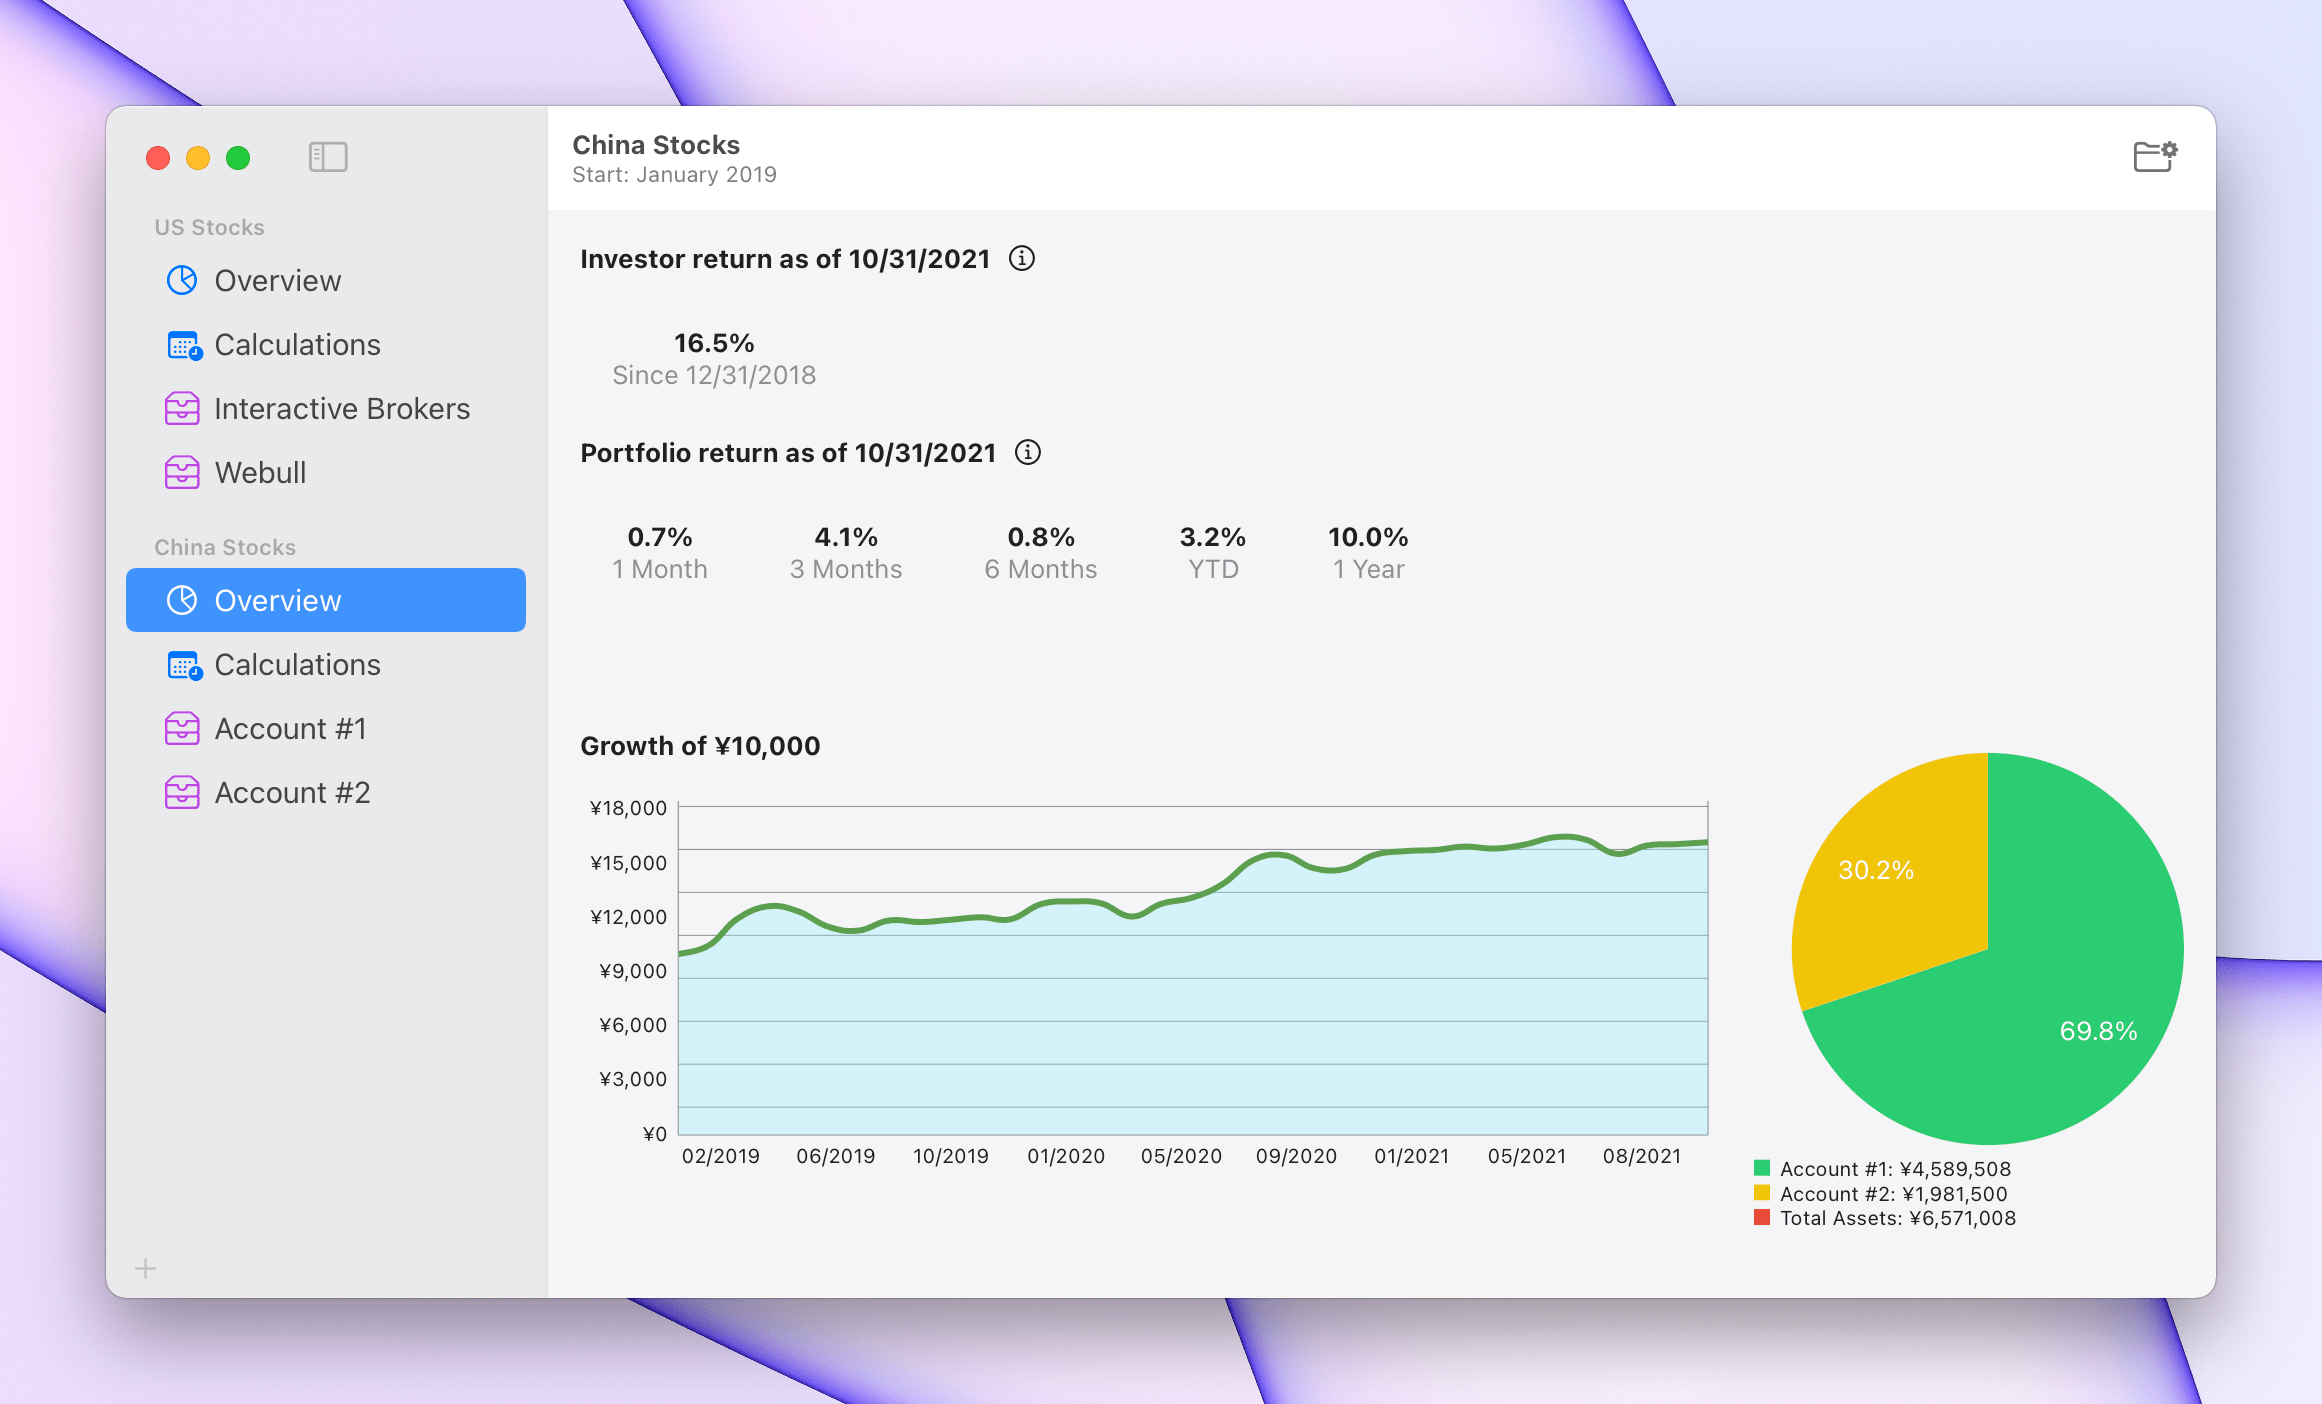
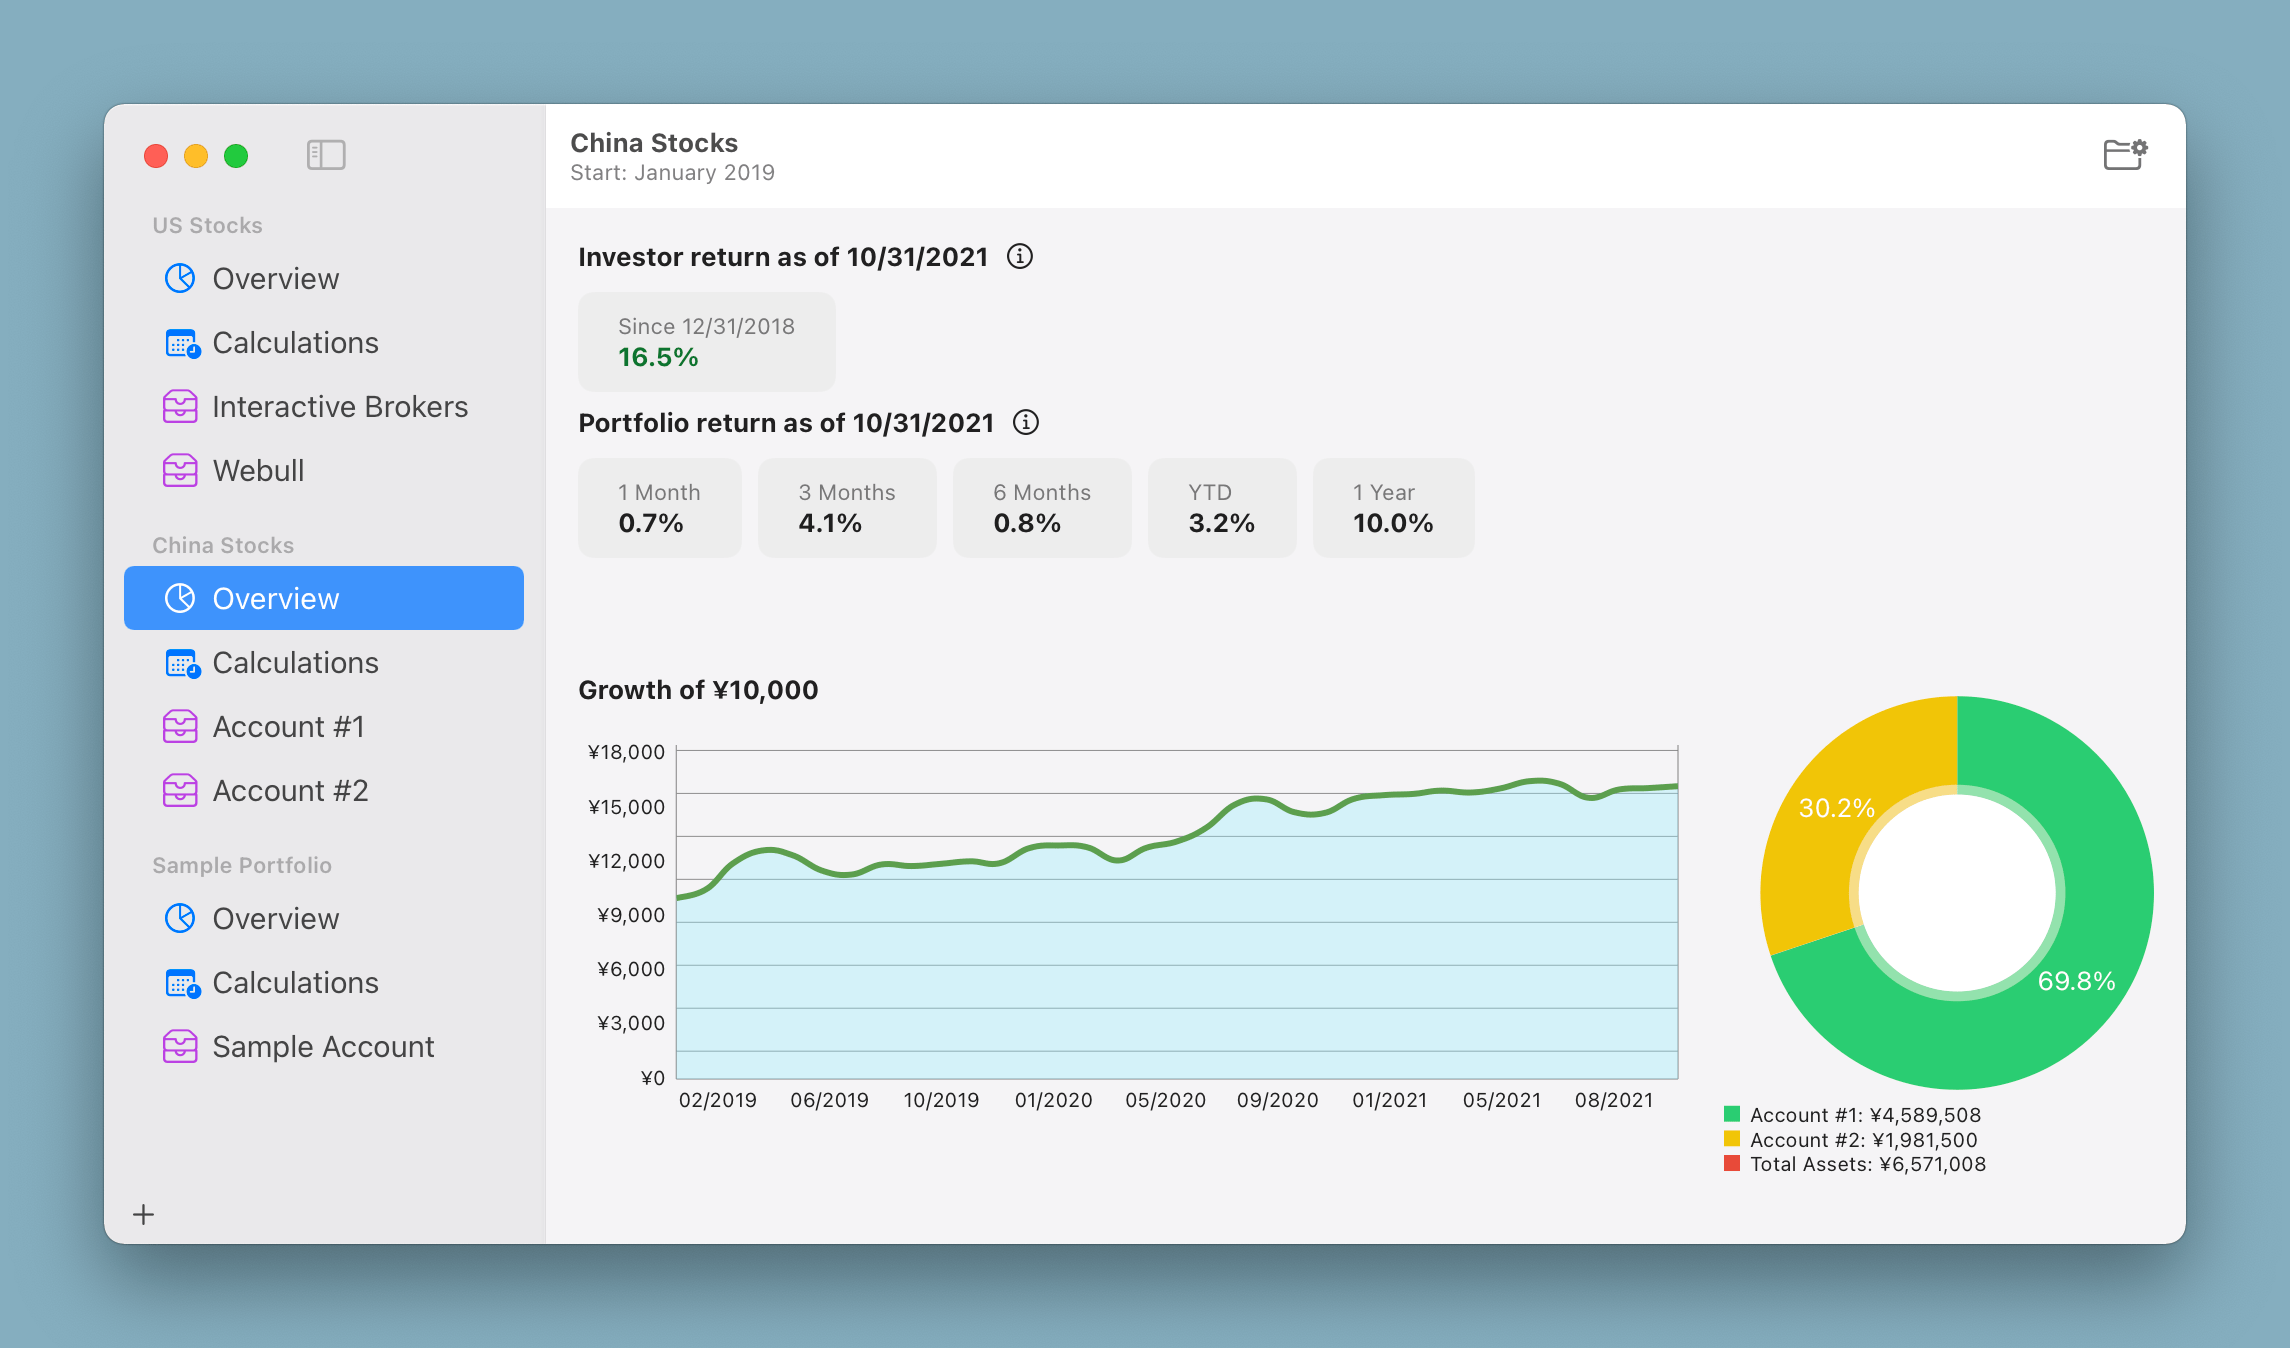
Polish overview page

diff --git a/macOS/Views/PortfolioView/PortfolioReturnView.swift b/macOS/Views/PortfolioView/PortfolioReturnView.swift
@@ -11,6 +11,7 @@ struct PortfolioReturnView: View {
     var portfolioReturn: PortfolioReturn
     @State private var showingInvestorReturnViewPopover = false
     @State private var showingPortfolioReturnViewPopover = false
+    @AppStorage("upsDownsColor") var upsDownsColor = UpsDownsColor.greenUp
 
     var body: some View {
         if let returnObject = portfolioReturn.returns.last {
@@ -31,7 +32,8 @@ struct PortfolioReturnView: View {
 
                 returnView(
                     label: "Since \(Self.dateFormatter.string(from: portfolioReturn.returns.first!.closeDate))",
-                    value: portfolioReturn.internalReturn
+                    value: portfolioReturn.internalReturn,
+                    showColor: true
                 )
 
                 HStack {
@@ -76,35 +78,72 @@ struct PortfolioReturnView: View {
             EmptyView()
         }
     }
+}
 
-    private func returnView(label: String, value: Decimal?) -> some View {
+private extension PortfolioReturnView {
+    func returnView(label: String, value: Decimal?, showColor: Bool) -> some View {
+        Group {
+            if showColor {
+                returnView(label: label, value: value)
+                    .foregroundColor(returnColor(value ?? 0))
+            } else {
+                returnView(label: label, value: value)
+            }
+        }
+    }
+
+    func returnView(label: String, value: Decimal?) -> some View {
         Group {
             if let value = value {
-                VStack {
+                GroupBox {
                     Text(Self.valueFormatter.string(from: value as NSNumber) ?? "0.0%")
                         .font(.headline)
+                } label: {
                     Text(label)
-                        .foregroundColor(.gray)
-                }.padding()
+                }
+                .groupBoxStyle(ReturnGroupBoxStyle())
             } else {
                 EmptyView()
             }
         }
     }
 
-    private static var dateFormatter: DateFormatter = {
+    func returnColor(_ value: Decimal) -> Color {
+        if upsDownsColor == .greenUp {
+            return value >= 0 ? Color("PriceGreen") : Color("PriceRed")
+        } else {
+            return value >= 0 ? Color("PriceRed") : Color("PriceGreen")
+        }
+    }
+
+    static var dateFormatter: DateFormatter = {
         let formatter = DateFormatter()
         formatter.dateFormat = "MM/dd/yyyy"
         return formatter
     }()
 
-    private static var valueFormatter: NumberFormatter = {
+    static var valueFormatter: NumberFormatter = {
         let formatter = NumberFormatter()
         formatter.numberStyle = .percent
         formatter.minimumFractionDigits = 1
         formatter.maximumFractionDigits = 1
         return formatter
     }()
+}
+
+struct ReturnGroupBoxStyle: GroupBoxStyle {
+    func makeBody(configuration: Configuration) -> some View {
+        VStack(alignment: .leading) {
+            configuration.label
+                .font(.subheadline)
+                .foregroundColor(Color.secondary)
+            configuration.content
+        }
+        .padding(.vertical, 10)
+        .padding(.horizontal, 20)
+        .background(Color(NSColor.windowBackgroundColor))
+        .clipShape(RoundedRectangle(cornerRadius: 8, style: .continuous))
+    }
 }
 
 struct InvestorReturnPopover: View {

diff --git a/macOS/Views/Settings/SettingsView.swift b/macOS/Views/Settings/SettingsView.swift
@@ -9,15 +9,42 @@ import SwiftUI
 
 struct SettingsView: View {
     @AppStorage("showBalanceOnPortfolioOverview") var showBalanceOnPortfolioOverview = true
+    @AppStorage("upsDownsColor") var upsDownsColor = UpsDownsColor.greenUp
 
     var body: some View {
         Form {
-            Toggle("Show Balance on Overview Page", isOn: $showBalanceOnPortfolioOverview)
+            Toggle("Show balance on Overview page", isOn: $showBalanceOnPortfolioOverview)
+
+            Picker("Ups/Downs Color:", selection: $upsDownsColor) {
+                HStack {
+                    Image(systemName: "chart.line.uptrend.xyaxis")
+                        .renderingMode(.template)
+                        .foregroundColor(Color("PriceGreen"))
+                    Text("Green up")
+                }.tag(UpsDownsColor.greenUp)
+
+                HStack {
+                    Image(systemName: "chart.line.uptrend.xyaxis")
+                        .renderingMode(.template)
+                        .foregroundColor(Color("PriceRed"))
+                    Text("Red up")
+                }.tag(UpsDownsColor.redUp)
+            }
+            .fixedSize()
+            .pickerStyle(.inline)
         }
         .padding(20)
-        .frame(width: 600, height: 300)
+        .frame(minWidth: 320, alignment: .leading)
     }
 }
+
+enum UpsDownsColor: String, CaseIterable, Identifiable {
+    var id: UpsDownsColor { self }
+
+    case greenUp
+    case redUp
+}
+
 
 struct Settings_Previews: PreviewProvider {
     static var previews: some View {

diff --git a/macOS/Views/PortfolioView/OverviewChart.swift b/macOS/Views/PortfolioView/OverviewChart.swift
@@ -22,7 +22,7 @@ struct OverviewChart: NSViewRepresentable {
         view.rotationEnabled = false
         view.legend.orientation = .vertical
         view.data = chartData
-        view.drawHoleEnabled = false
+        view.drawHoleEnabled = true
 
         return view
     }
